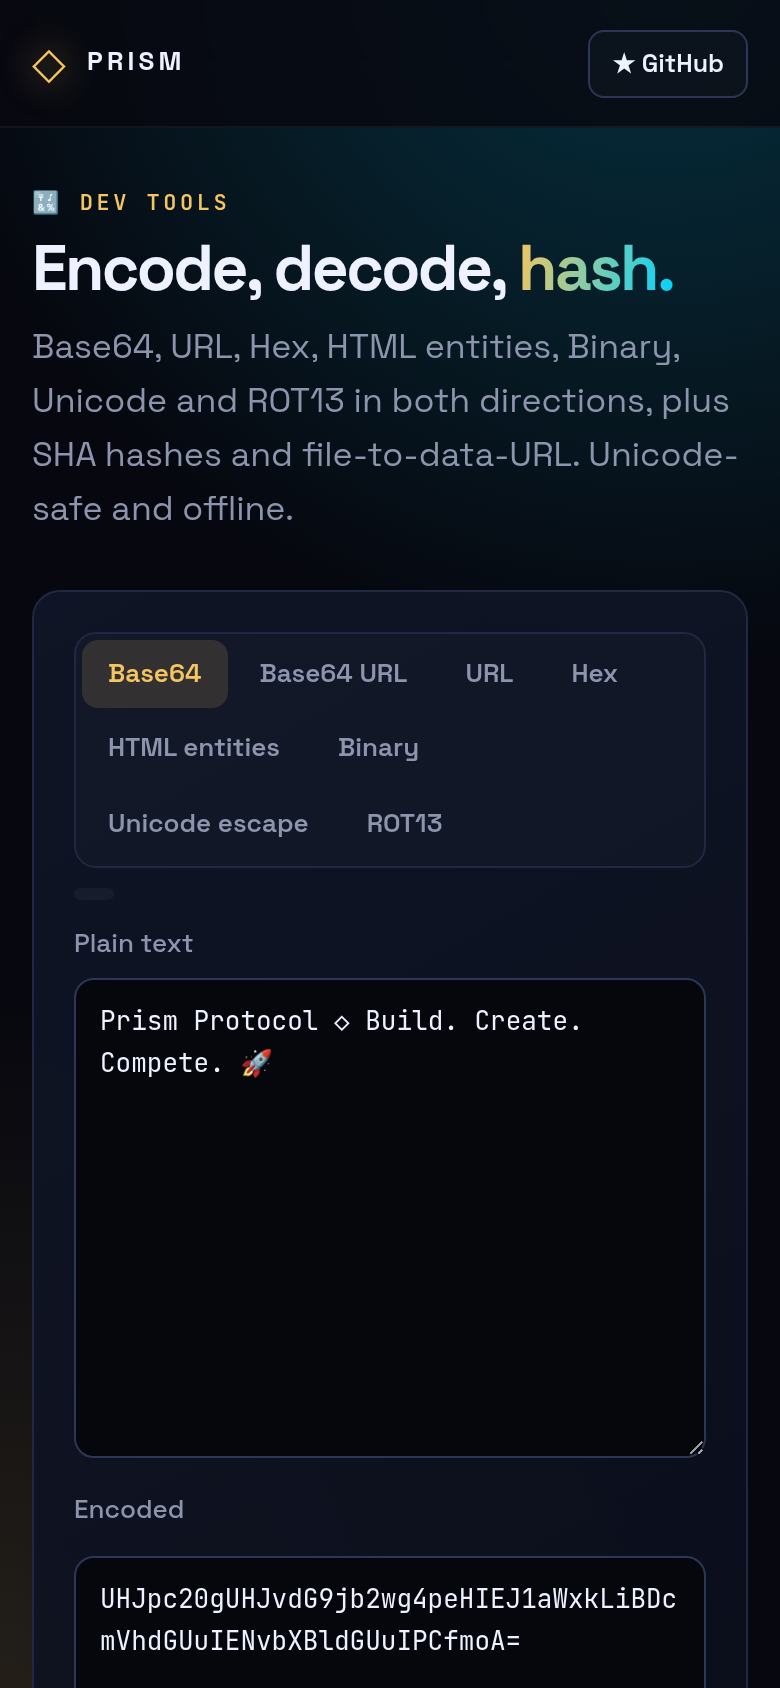
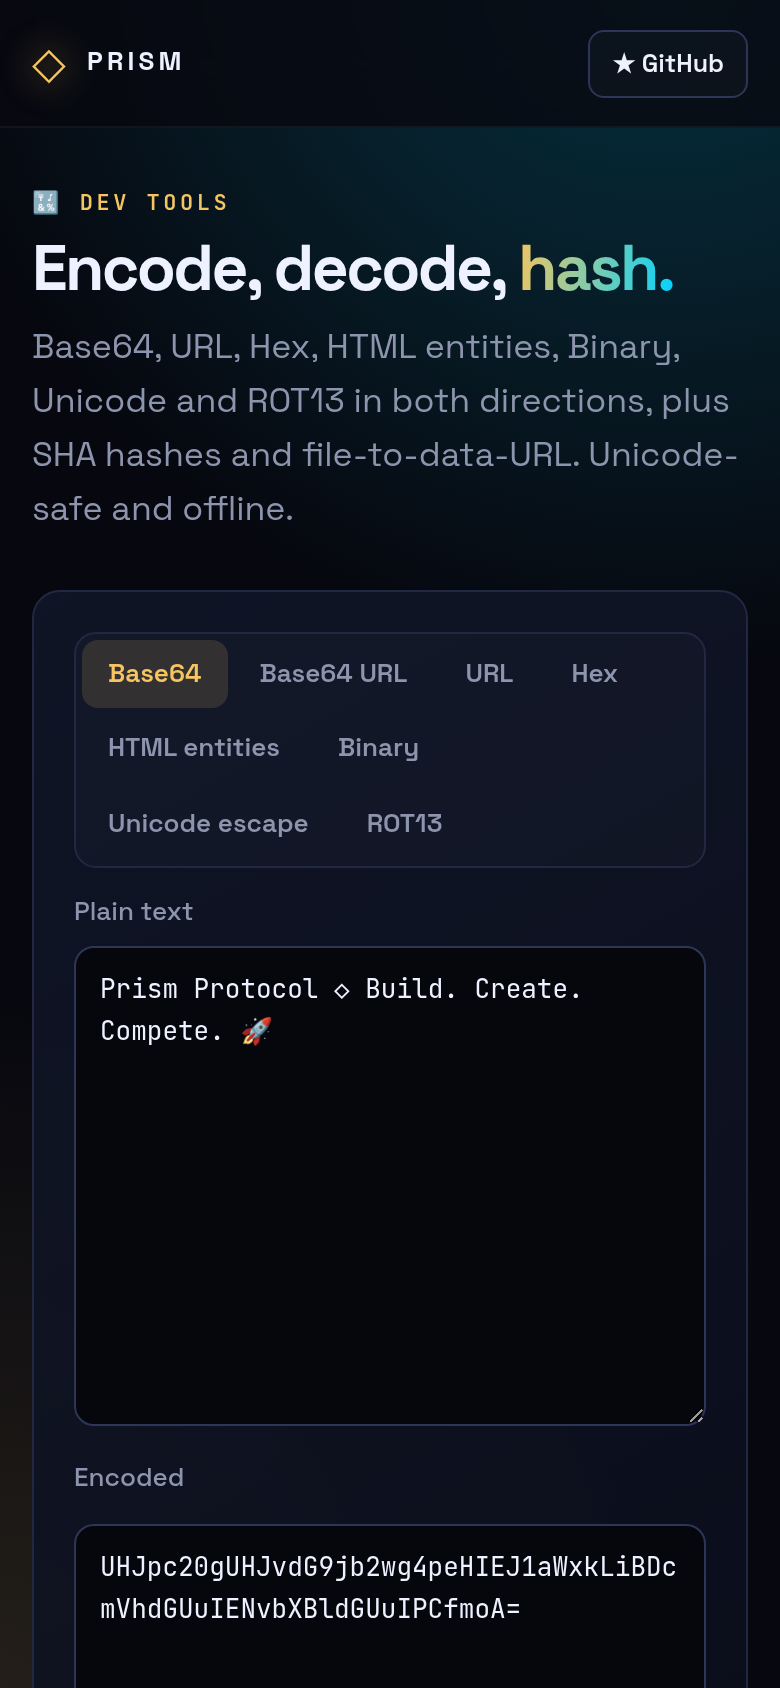
chore: update

diff --git a/css/prism.css b/css/prism.css
@@ -55,3 +55,4 @@ mark{background:color-mix(in srgb,var(--accent) 30%,transparent);color:var(--tex
 .foot a{color:var(--muted);text-decoration:none}.foot a:hover{color:var(--text)}
 @media (max-width:860px){.g2,.g3,.g4{grid-template-columns:1fr}.brand span:not(.mark){display:none}.hero{padding-top:30px}}
 @media (prefers-reduced-motion:reduce){*{transition:none!important;animation:none!important}}
+.pill:empty{display:none}

diff --git a/README.md b/README.md
@@ -80,6 +80,7 @@ prism-encode-kit/
 │   └── core.test.js
 ├── .gitignore
 ├── LICENSE
+├── README.md
 ├── index.html
 └── package.json
 ```
